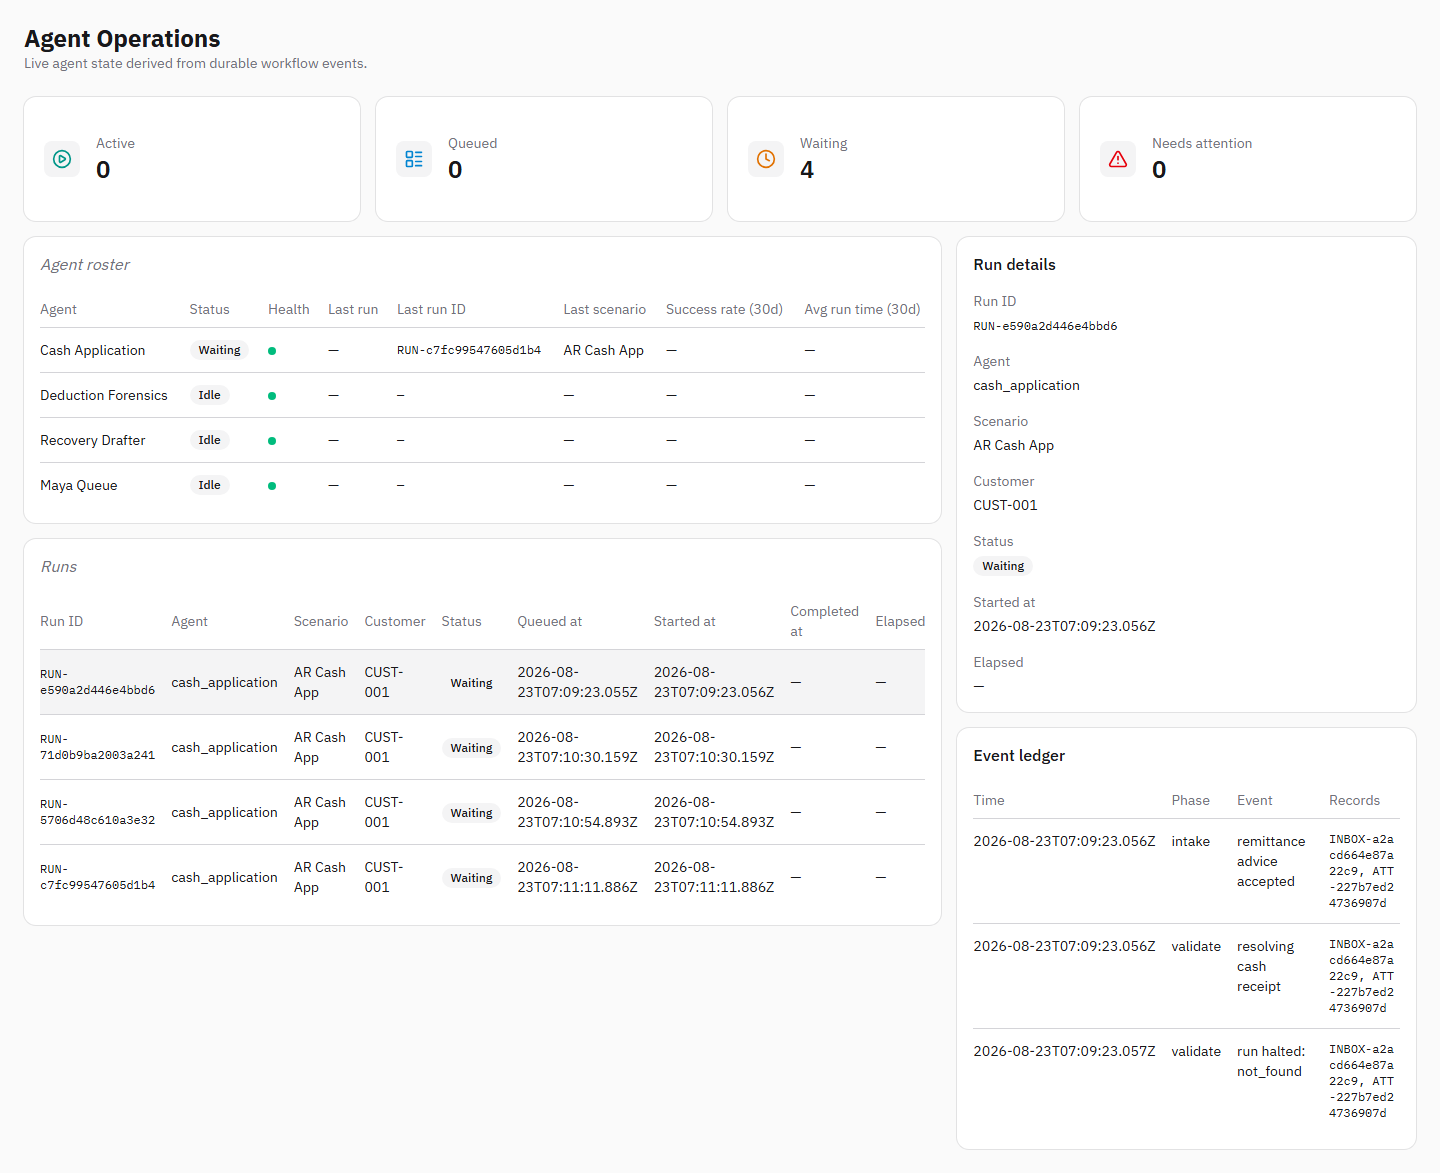
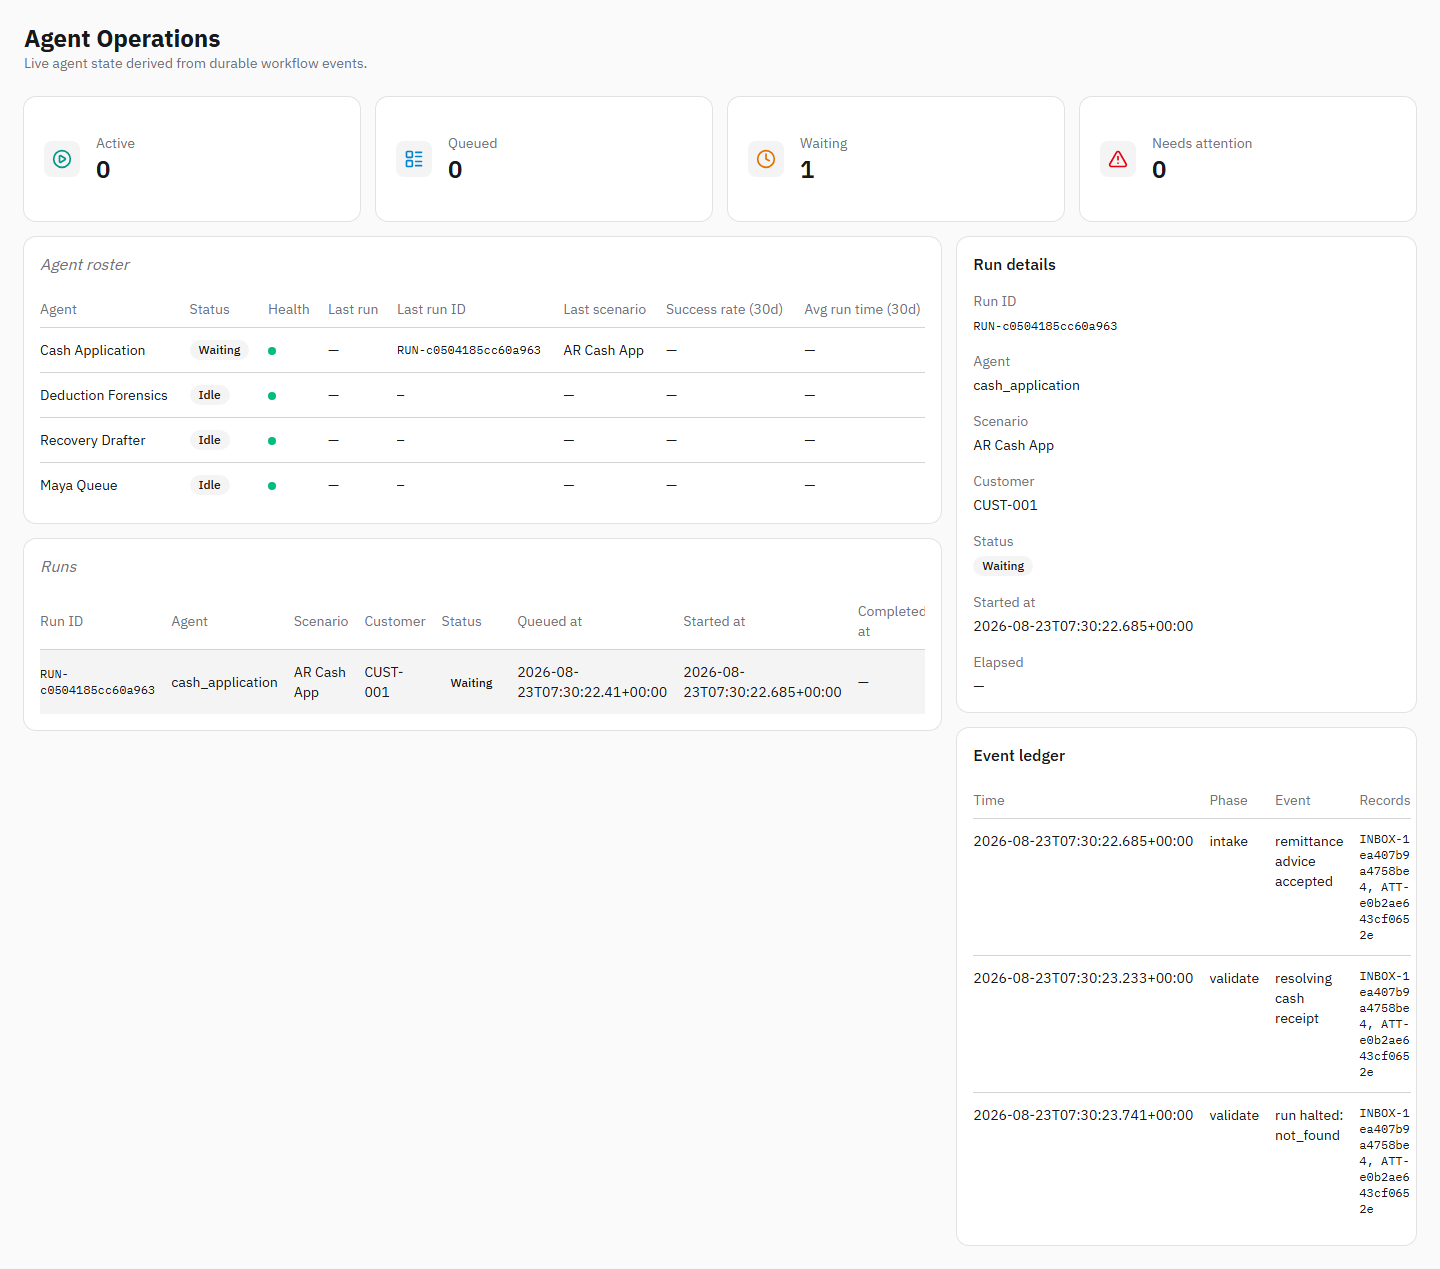
fix: read the Supabase URL under the name the rest of the code uses
The rehearsal receipt route looked for RECOUP_SUPABASE_URL, which nothing sets;
every other adapter reads SUPABASE_URL. In production the write answered 502 and
the run sat at AwaitingCashReceipt with no receipt to find.

Caught by posting a receipt against the real deployment, not by any unit test:
the test supplied whichever name the route asked for, so it agreed with the bug.

diff --git a/src/services/cockpitApi.ts b/src/services/cockpitApi.ts
@@ -1170,7 +1170,8 @@ export function createCockpitApi(options: CockpitApiOptions = {}): Express {
       return;
     }
 
-    const supabaseUrl = runtimeEnv.RECOUP_SUPABASE_URL?.replace(/\/$/u, "") ?? "";
+    // SUPABASE_URL is the name every other adapter reads.
+    const supabaseUrl = (runtimeEnv.SUPABASE_URL ?? runtimeEnv.RECOUP_SUPABASE_URL ?? "").replace(/\/$/u, "");
     const serviceRoleKey = runtimeEnv.SUPABASE_SERVICE_ROLE_KEY ?? "";
     const observedAt = new Date().toISOString();
     const receiptId = `REH-${parsed.data.paymentReference}`;

diff --git a/tests/unit/rehearsal-cash-receipt-route.test.ts b/tests/unit/rehearsal-cash-receipt-route.test.ts
@@ -21,7 +21,7 @@ const baseEnv: RuntimeEnv = {
   RECOUP_CASH_ROLLOUT_STAGE: "shadow",
   RECOUP_CASH_REHEARSAL_ENABLED: "true",
   RECOUP_INBOUND_SHARED_SECRET: secret,
-  RECOUP_SUPABASE_URL: "https://stub.invalid",
+  SUPABASE_URL: "https://stub.invalid",
   SUPABASE_SERVICE_ROLE_KEY: "stub-key"
 };
 
